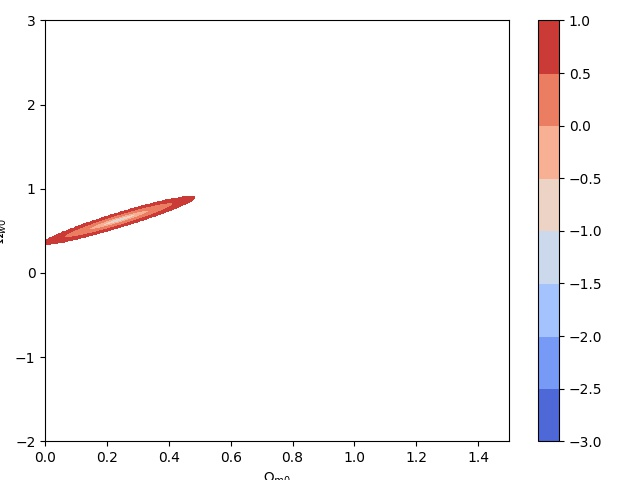
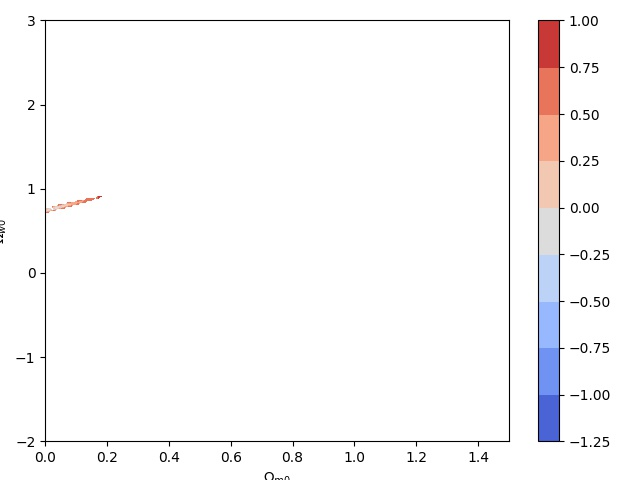
Added a code with class structure for task 6

diff --git a/Project1/proj1_6_class.py b/Project1/proj1_6_class.py
@@ -1,0 +1,280 @@
+import numpy as np
+import matplotlib.pyplot as plt
+from scipy.constants import c
+from progress.bar import Bar
+import scipy.integrate as integrate
+import sys
+
+
+class CosmoProject1:
+    def __init__(self, N=200):
+
+        self.inter = N
+        self.factor1 = 3.085678*1e25
+        self.factor2 = 3.085678*1e22
+
+        self.omega_m_min = 0
+        self.omega_m_max = 1.5
+        self.omega_w_min = -2
+        self.omega_w_max = 3
+
+        self.w = -1
+        self.ci = c
+        self.h0 = (70*1000/self.factor2)#1/s^2
+
+    def read_file(self, fileName):
+        #Read from file
+        self.fileName = fileName
+
+        file = open(self.fileName,"r")
+
+        redshift = []
+        lumdist = []
+        lumdist_err = []
+
+
+        for line in file:
+
+            if len(line.split()) < 4 and len(line.split()) > 1:
+                reds, lumdi, err = line.split()
+                redshift.append( float( reds ) )
+                lumdist.append( float( lumdi ) )
+                lumdist_err.append( float( err ) )
+
+            else:
+                file.readline()
+
+
+
+        self.redshift = np.asarray(redshift)
+        self.lumdist = np.asarray(lumdist)*self.factor1  #meter
+        self.lumdist_err = np.asarray(lumdist_err)*self.factor1  #meter
+
+        file.close()
+
+
+    def bigbang_test(self):
+        """
+        Check if H^2 < 0
+
+        Returns
+        -------
+        True if H^2 > 0
+        False if H^2 < 0
+        """
+
+        Hh_0 = self.h0*np.sqrt(self.current_omega_m*(1+self.redshift)**3\
+                               + self.current_omega_k*(1+self.redshift)**2\
+                               + self.current_omega_w*(1+self.redshift)**(3*(1+self.w)))**2
+
+
+        if Hh_0.all() > 0:
+            return True
+        else:
+            return False
+
+    def S(self, k,i):
+        """
+        Calculate S_k(i)
+
+        Parameters
+        -----------
+
+        k : int
+          Spatial curvature parameter
+        i : {array-like}, shape = [z_samples]
+
+        Returns
+        -------
+        sin(i), for k = 1
+        i, for k = 0
+        sinh(i), for k = -1
+        """
+        if k == 1:
+            return np.sin(i)
+        elif k == 0:
+            return i
+        elif k == -1:
+            return np.sinh(i)
+
+    def integral(self, H, z):
+        """
+        Calculate integral from 0 to z
+
+        Parameters
+        -----------
+        H : func
+          function for calculating expansion rate
+        z : {array-like}, shape = [z_samples]
+          Redshift values, read from file
+
+        Returns
+        -------
+        res : integral values
+        """
+        # Do the integral for all input z
+        Nz  = len(z) # Length of z
+        res = np.zeros(Nz)
+        res_prev = 0
+        # Make sure to do the first step correctly, i.e. if z[0] is not zero
+        # then integrate from 0 to z[0] first
+        if(z[0] > 1e-3):
+            res[0] = integrate.quad(H, 0, z[0])[0]
+
+        for i in range(1,Nz):
+            z_start  = z[i-1]
+            z_end    = z[i]
+            res_prev = res[i-1]
+            res_next = res_prev + integrate.quad(H, z_start, z_end)[0]
+            res[i]   = res_next
+
+        return res
+
+    def H(self, z):
+        """
+        Calculate 1/H as a function of z, used in r calculation
+
+        Returns
+        -------
+        1/H
+        """
+
+        h = self.h0*np.sqrt(self.current_omega_m*(1+z)**3\
+                          + self.current_omega_k*(1+z)**2\
+                          + self.current_omega_w*(1+z)**(3*(1+self.w)))**2
+        return 1/h
+
+
+    def r(self):
+        """
+        Calculate r integral
+
+        Returns
+        -------
+        r values
+
+        """
+
+
+        i = np.sqrt(np.abs(self.current_omega_k))*self.h0
+
+        if self.current_omega_k < 0:
+            k = 1
+            return self.S(k, self.integral(self.H, self.redshift)*i)
+        elif self.current_omega_k > 0:
+            k = -1
+            return self.S(k, self.integral(self.H, self.redshift)*i)
+        else:
+            k = 0
+            return self.integral(self.H, self.redshift)*self.h0
+
+
+
+
+    def x_i2(self):
+        """
+        Calculate chi^2
+
+        Returns
+        -------
+        xi2
+
+        """
+        #Find the numerical model for luminosity distance
+
+
+
+
+        if self.current_omega_k == 0:
+            lumdist_model = self.ci * ( 1+self.redshift )/(self.h0)\
+                              * self.r()
+        else:
+            lumdist_model = self.ci * ( 1+self.redshift )\
+                              / (self.h0*np.sqrt(np.abs(self.current_omega_k)))\
+                              * self.r()
+
+
+        xi2 = np.sum( ( self.lumdist - lumdist_model )**2/self.lumdist_err**2 )
+        return xi2
+
+    def find_optimal_parameter_combination(self):
+        """
+        Finds the optimal combination of omega_w and omega_m by plotting the
+        likelyhood that the combination is the true combination
+
+        """
+
+
+        omega_mo = np.linspace(self.omega_m_min, self.omega_m_max, self.inter)
+        omega_wo = np.linspace(self.omega_w_min, self.omega_w_max, self.inter)
+
+        X,Y = np.meshgrid(omega_mo, omega_wo)
+        self.xi2val = np.zeros( ( self.inter, self.inter ) )
+
+
+        #Run simulation
+        #Remove hashtag in the run function as well as in
+        #the package section to have progress bar in terminal
+
+        #bar = Bar('Processing', max=self.inter)
+
+        for iom,om_m in enumerate(omega_mo):
+            self.current_omega_m = om_m
+            for iow,om_w in enumerate(omega_wo):
+
+                self.current_omega_w = om_w
+                self.current_omega_k = 1 - self.current_omega_m\
+                                         - self.current_omega_w
+
+                """
+                print("o_m = ", self.current_omega_m)
+                print("o_w = ", self.current_omega_w)
+                print("o_k = ", self.current_omega_k)"""
+
+
+                if self.bigbang_test() is True:
+                    val = self.x_i2()
+                    self.xi2val[iow, iom] = val
+                else:
+                    self.xi2val[iow, iom] = np.nan
+
+            #bar.next()
+        #bar.finish()
+
+        self.xi2val = self.xi2val - np.nanmin(self.xi2val)
+
+        cmap = plt.cm.coolwarm
+        cmap.set_bad('black',1.)
+        plt.contourf(X,Y,np.log10(self.xi2val),cmap=cmap)
+
+        plt.colorbar()
+        plt.xlabel(r"$\Omega_{m 0}$")
+        plt.ylabel(r"$\Omega_{w 0}$")
+        plt.savefig("images/totxi2_6.jpeg")
+        plt.show()
+
+
+
+        # 95% range
+        index = np.where(self.xi2val - np.nanmin(self.xi2val) < 6.17,\
+                         self.xi2val, np.nan)
+
+        cmap = plt.cm.coolwarm
+        cmap.set_bad('black',1.)
+        plt.contourf(X,Y,np.log10(index),cmap=cmap)
+        plt.tight_layout()
+        plt.colorbar()
+
+        plt.xlabel(r"$\Omega_{m 0}$")
+        plt.ylabel(r"$\Omega_{w 0}$")
+
+        plt.savefig("images/95%xi2_6.jpeg")
+        plt.show()
+
+
+
+
+if "__main__" == __name__:
+    Omega = CosmoProject1()
+    Omega.read_file("sndata.txt")
+    Omega.find_optimal_parameter_combination()

diff --git a/Project1/proj1_6.py b/Project1/proj1_6.py
@@ -240,7 +240,7 @@ def xi2(z,omega_m, omega_w):
 
 # Set grid for computing a contourf plot
 size = len(redshift)
-inter = 700
+inter = 200
 
 omega_mo = np.linspace(0,1.5,inter)
 omega_wo = np.linspace(-2,3,inter)
